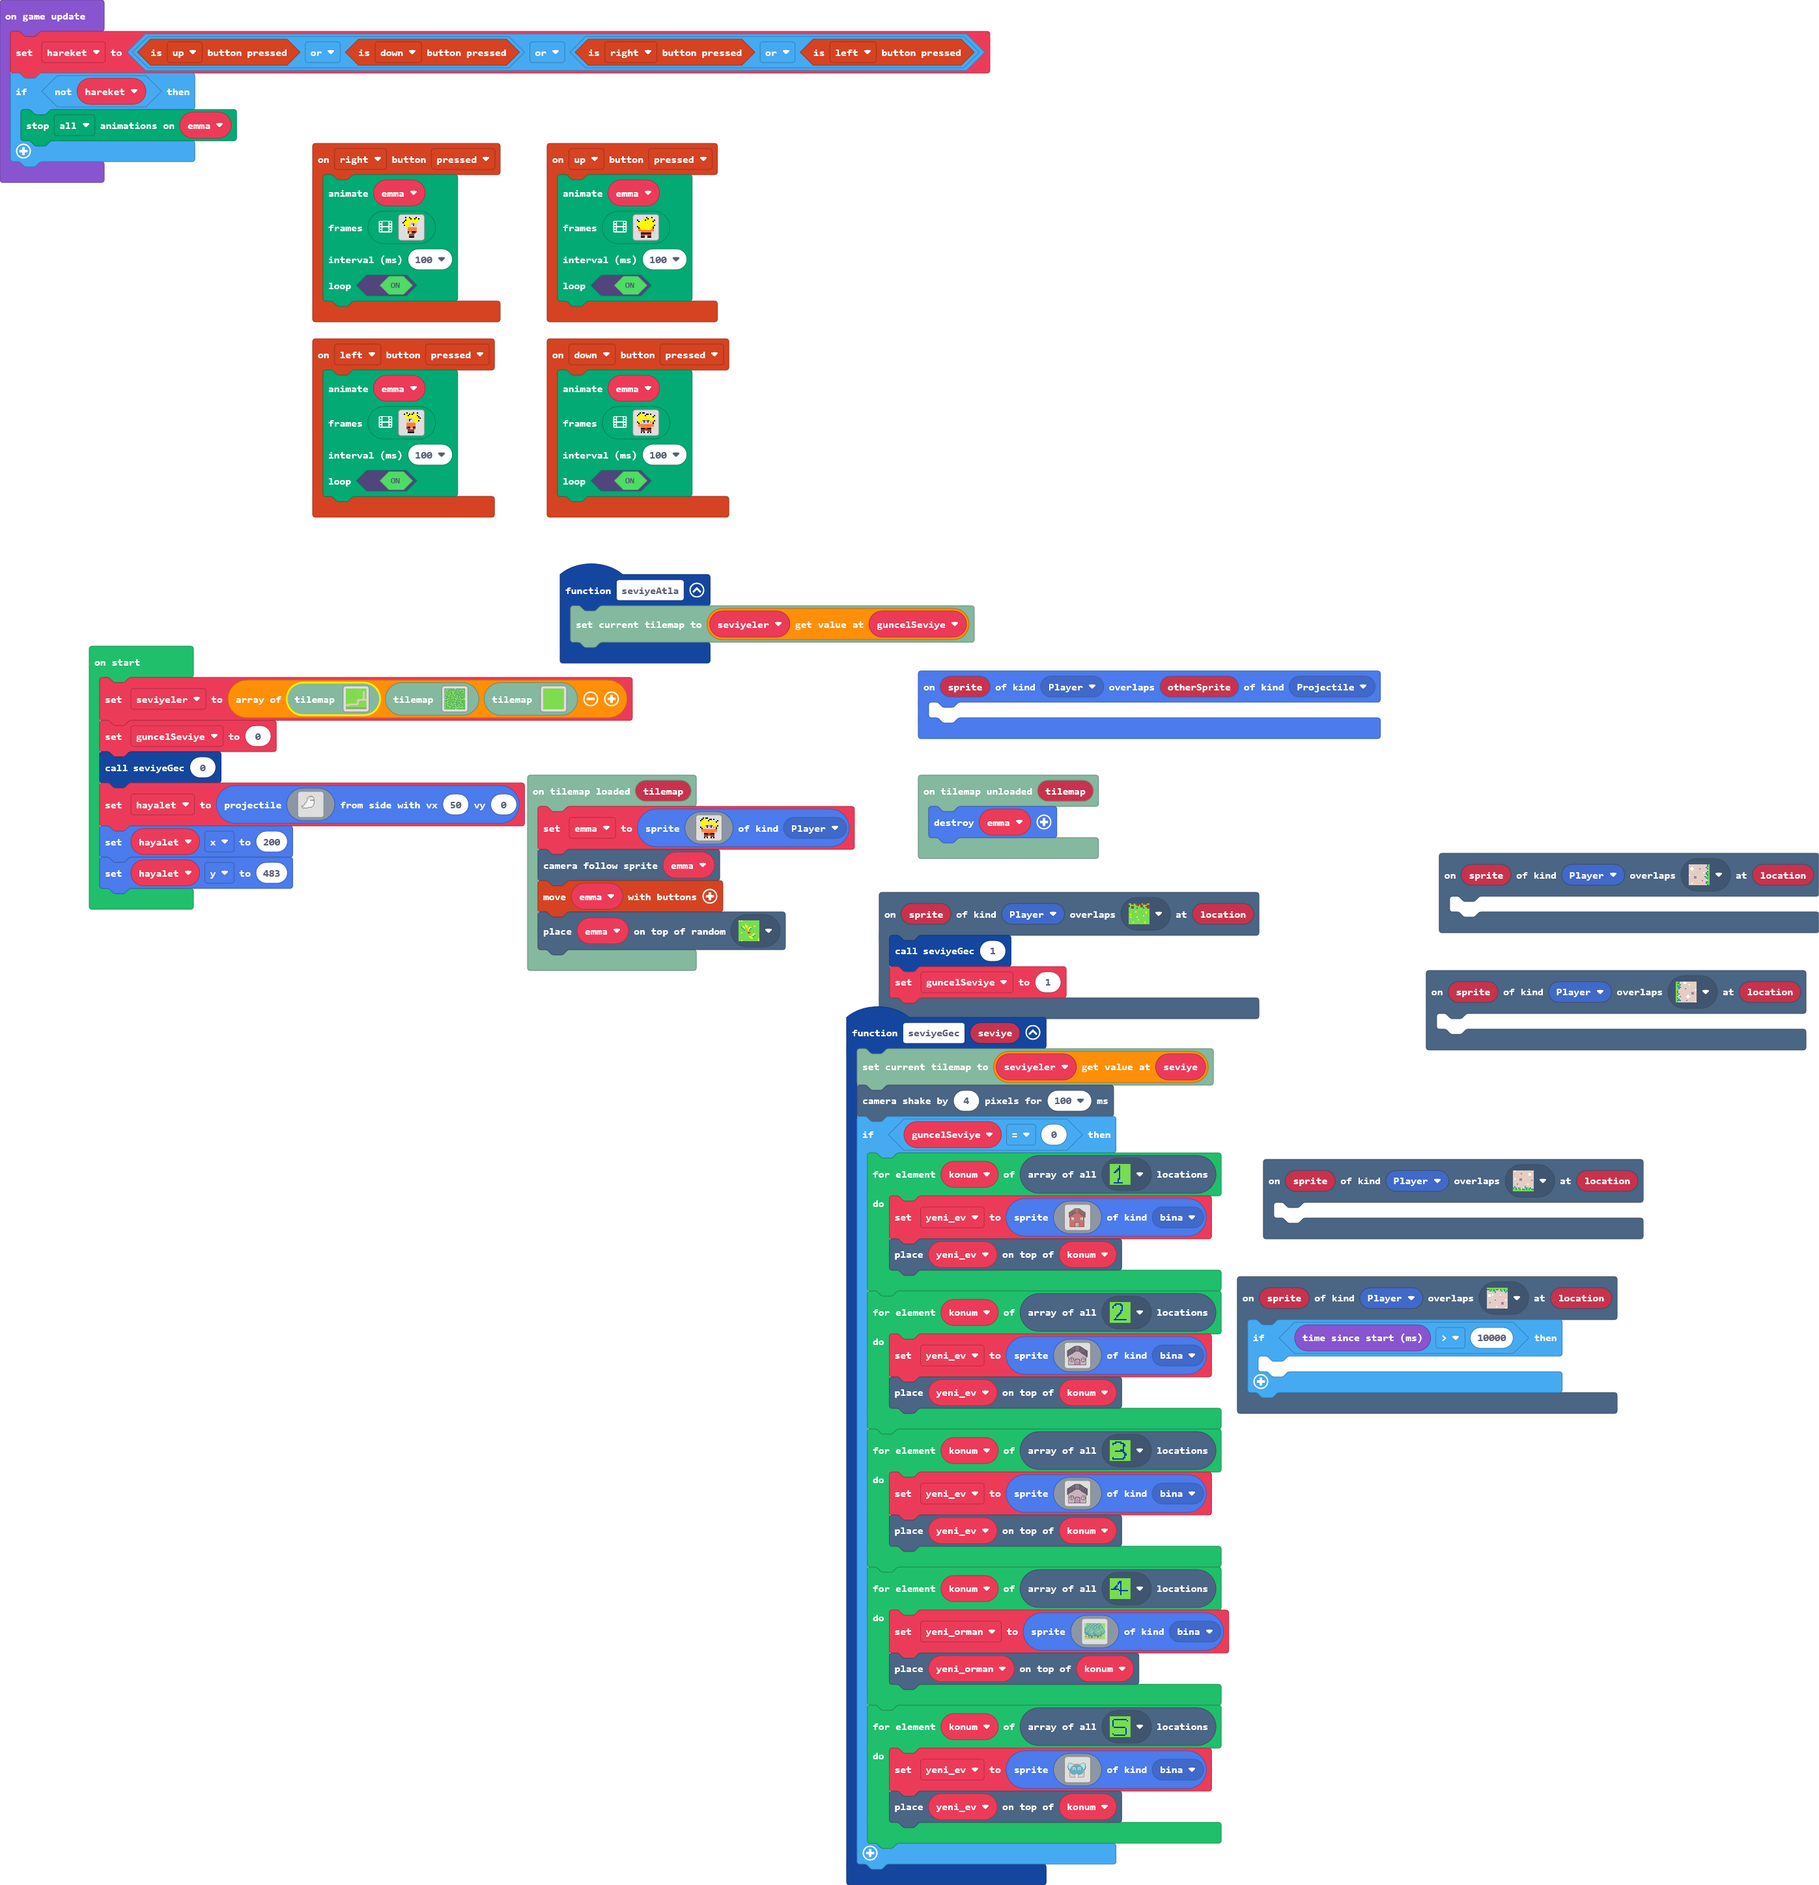
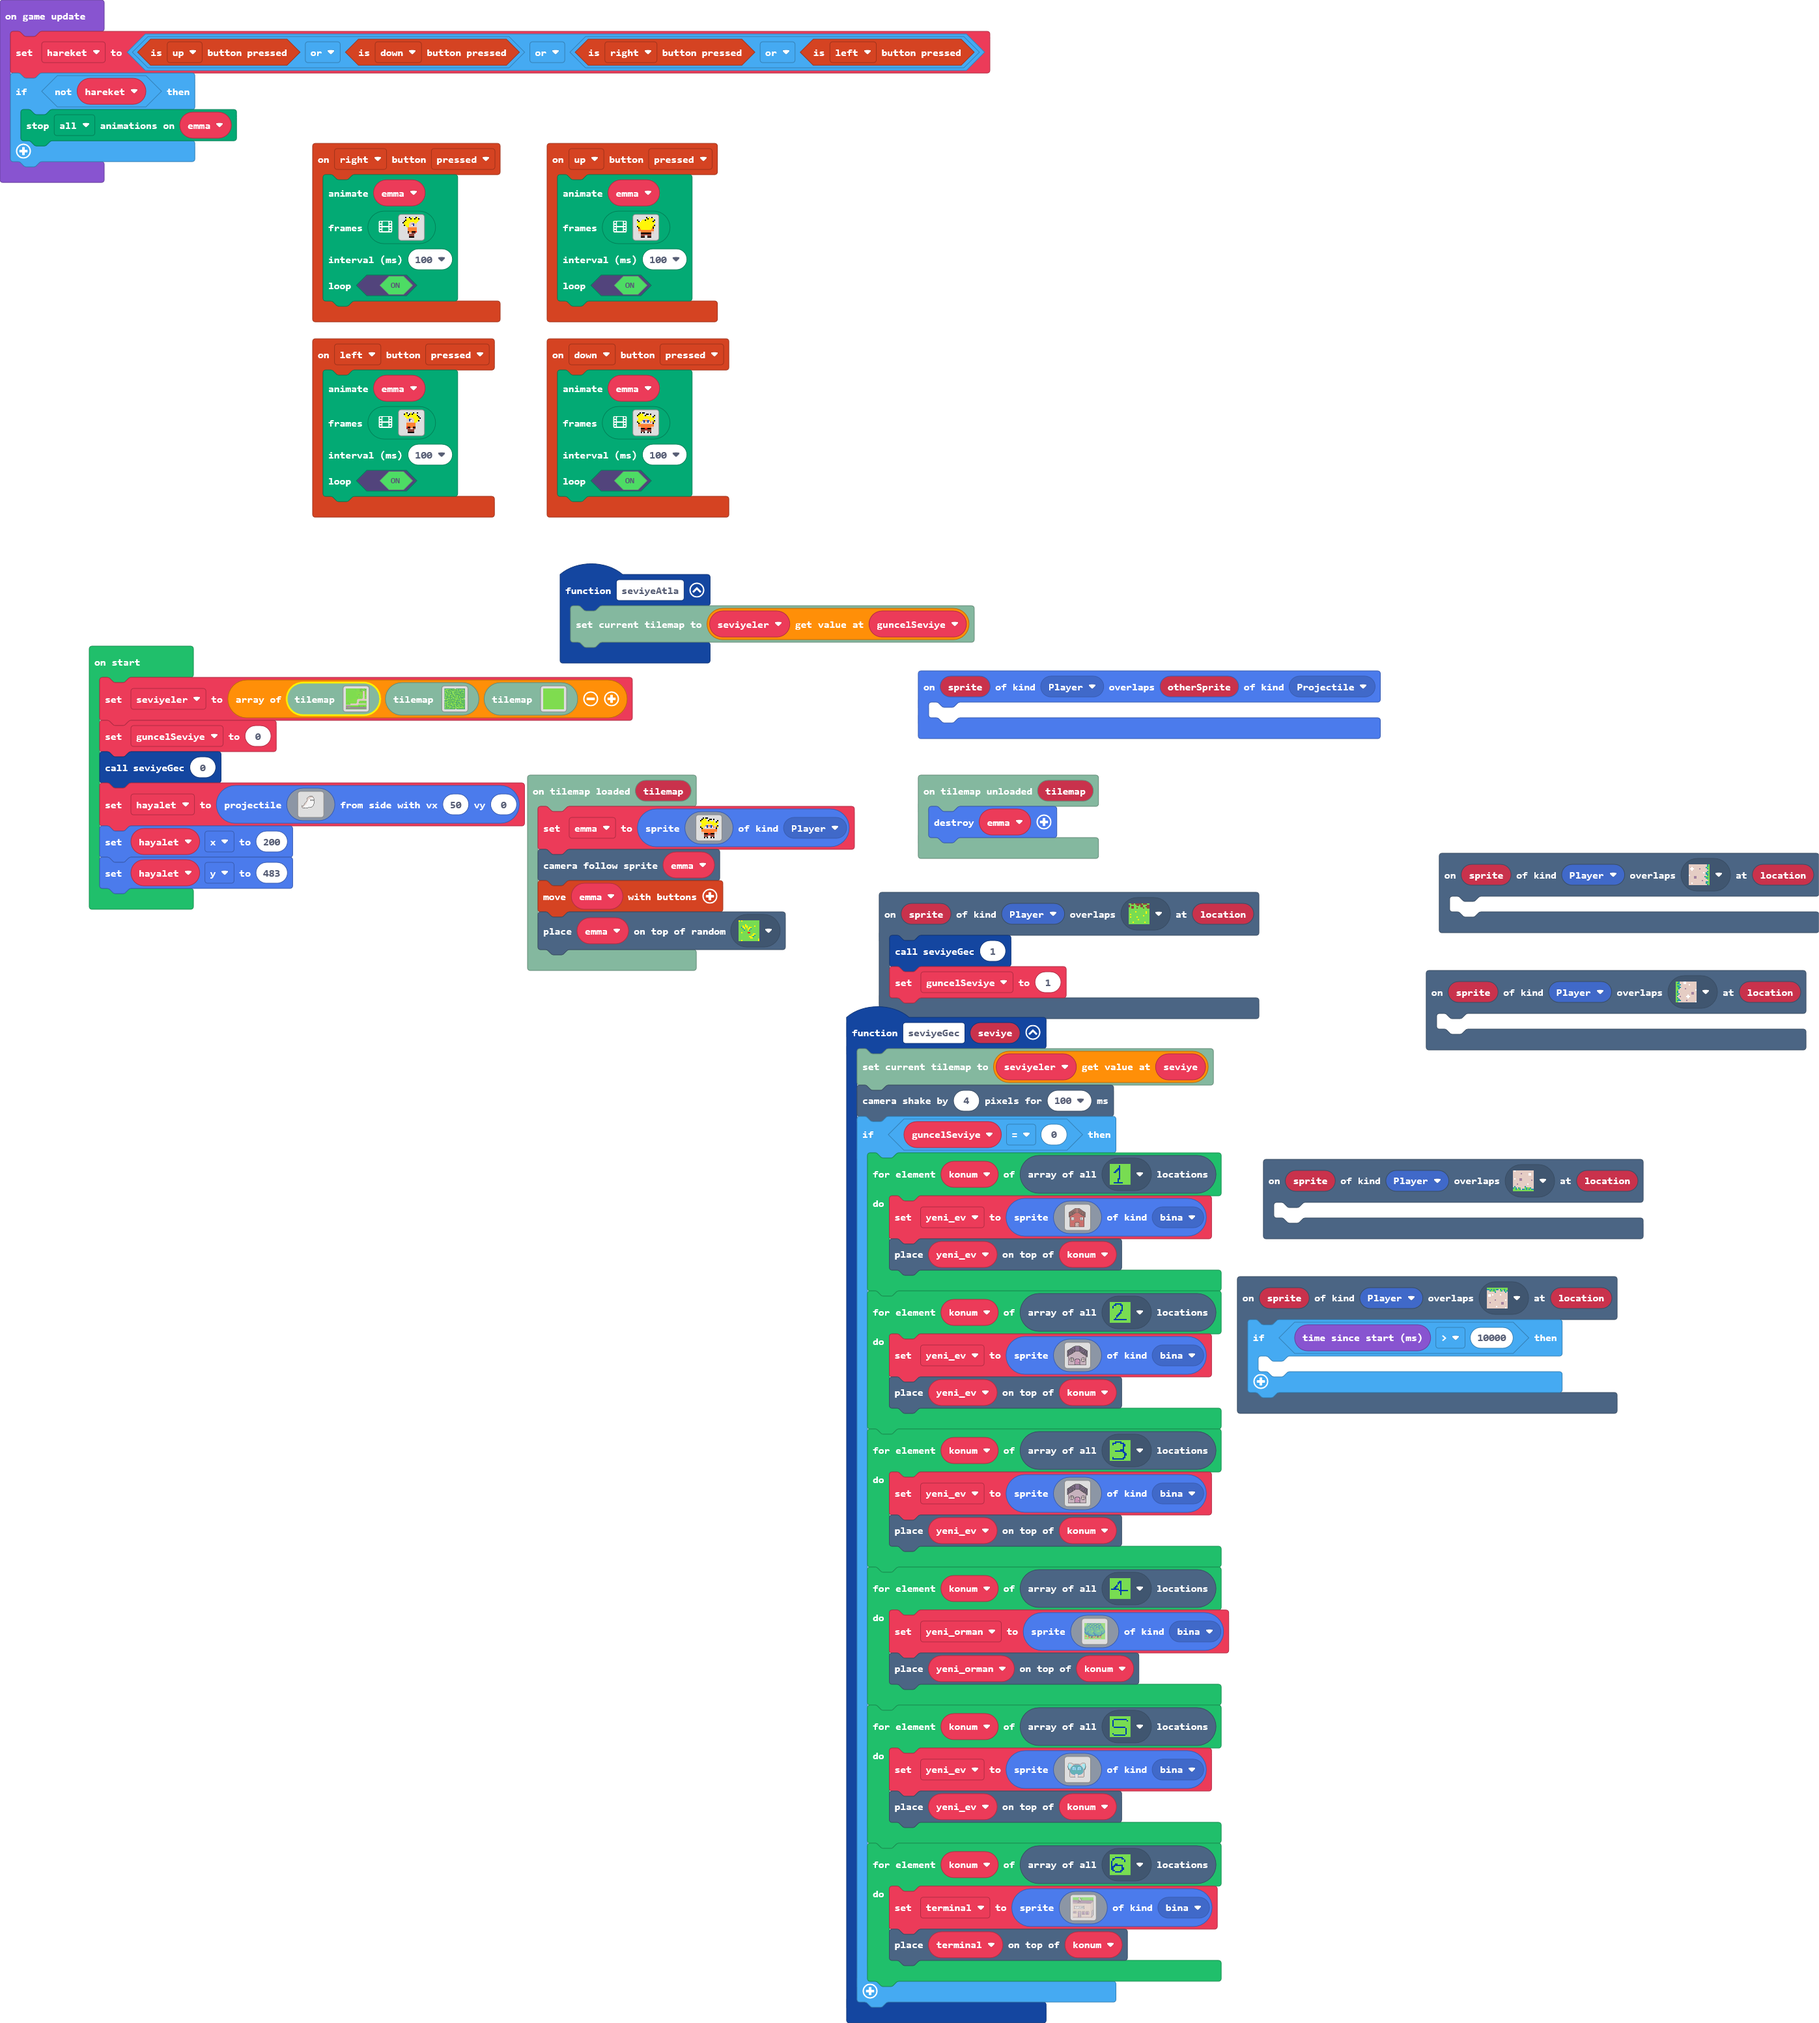
Update main.blocks, main.ts, images.g.jres, images.g.ts, tilemap.g.jres, tilemap.g.ts

Changed region(s): [[0.0, 0.0, 1.0, 0.9952]]

diff --git a/images.g.ts b/images.g.ts
@@ -366,25 +366,6 @@ c 3 c 3 3 5 5 5 5 3 3 c 3 c
 . . 3 3 3 3 3 3 3 3 3 3 . . 
 . . . 3 a a 3 3 a a 3 . . . 
 `;
-            case "image10":
-            case "myImage3":return img`
-. . . . . . . . . . . . . . . . 
-. . . . . . . . . . . . . . . . 
-. . . . . . . . . . . . . . . . 
-. . . . . . . . . . . . . . . . 
-. . . . . . . . . . . . . . . . 
-. . . . . . . . . . . . . . . . 
-. . . . . . . . . . . . . . . . 
-. . . . . . . . . . . . . . . . 
-. . . . . . . . . . . . . . . . 
-. . . . . . . . . . . . . . . . 
-. . . . . . . . . . . . . . . . 
-. . . . . . . . . . . . . . . . 
-. . . . . . . . . . . . . . . . 
-. . . . . . . . . . . . . . . . 
-. . . . . . . . . . . . . . . . 
-. . . . . . . . . . . . . . . . 
-`;
             case "image11":
             case "myImage4":return img`
 . d . . . . . d . . d . . . d . 
@@ -1060,6 +1041,137 @@ fff.feeeeeeeeeeeeeeeeeeeeeeeeeeeeeeeeeeeeeeeeeeeeeeeeeeeeeefffef
 . . . . . . . . . . . . . . . . 
 . . . . . . . . . . . . . . . . 
 . . . . . . . . . . . . . . . . 
+`;
+            case "image10":
+            case "myImage3":return img`
[21 lines of base64/hex data omitted]
+bbbbbbbbbbbbbbbbbbbbbbbbbbbbbbbbbbbbbbfbbfbbbbbbbbbbbbbbbbbbbbbbbbbbbbbbbbbbbbbbbbbbbbbbbbbbbbbbbbbbbbbbbbbbbbbbbbbbbbbbbbbbbb1f
+bbbbbbbbbbbbbbbbbbbbbbbbbbbbbbbbbbbbbbfbbbfbbbbbbbbbbbbbbbbbbbbbbbbbbbbbbbbbbbbbbbbbbbbbbbbbbbbbbbbbbbbbbbbbbbbbbbbbbbbbbbbbb1ff
[100 lines of base64/hex data omitted]
+dffffffffffffffffffffffffffffffffffffffffffffffffffffffffffffffffffffffffffffffffffffffffffffffffffffffffffffffffffddddddddddddd
+dddddddddddddddddddddddddddddddddddddddddddddbbbddddddddddddddddddddddddddddddddddddddddddddddddddddddddddddddddddddddbbdddddddd
+dddddddbbddddddddddddddddddddddbbddddddddddddbbbddddddddddddddddddddddddddddddddbbddddddddddddddddddddddddddddddddddddbbdddddddd
+dddddddbbddddddddddddddddddddddbbdddddddddddddddddddddddddddddddddddddddddddddddbbdddddddddddddddddbbddddddddddddddddddddddddddd
+dddddddddddddddddddddddddddddddddddddddddddddddddddddddddbbddddddddddddddddddddddddddddddddddddddddbbddddddddddddddddddddddddddd
 `;
         }
         return null;

diff --git a/tilemap.g.ts b/tilemap.g.ts
@@ -214,7 +214,7 @@ namespace myTiles {
 . . . . . . . . . . . . . . . . 
 `, [myTiles.transparency16], TileScale.Sixteen);
             case "level4":
[2 lines of base64/hex data omitted]
 .....................2..........
 .....................2....222...
 .....................2....222...
@@ -233,13 +233,13 @@ namespace myTiles {
 ................................
 ................................
 ................................
-.......................2........
-......................222...222.
-......................2.2.2.2.22
-....................2.222...222.
-................................
-................................
-................................
+2222222................2........
+2222222...............222...222.
+2222222...............2.2.2.2.22
+2222222.............2.222...222.
+2222222.........................
+2222222.........................
+2222222.........................
 ................................
 ................................
 ....................2......2....
@@ -247,7 +247,7 @@ namespace myTiles {
 ................................
 ................................
 22222222222222222222222222222222
-`, [myTiles.transparency16,sprites.castle.tileGrass1,myTiles.tile7,myTiles.tile4,sprites.castle.tileGrass3,sprites.castle.tilePath5,myTiles.tile10,myTiles.tile11,myTiles.tile12,sprites.vehicle.roadHorizontal,sprites.castle.tilePath1,sprites.castle.tilePath2,sprites.castle.tilePath8,sprites.castle.tilePath9,sprites.castle.tilePath6,sprites.castle.tilePath4,myTiles.tile14,myTiles.tile16,myTiles.tile17,myTiles.tile19,myTiles.tile3,sprites.castle.tileGrass2,myTiles.tile5,myTiles.tile20,myTiles.tile2,sprites.castle.tilePath3], TileScale.Sixteen);
+`, [myTiles.transparency16,sprites.castle.tileGrass1,myTiles.tile7,myTiles.tile4,sprites.castle.tileGrass3,sprites.castle.tilePath5,myTiles.tile10,myTiles.tile11,myTiles.tile12,sprites.vehicle.roadHorizontal,sprites.castle.tilePath1,sprites.castle.tilePath2,sprites.castle.tilePath8,sprites.castle.tilePath9,sprites.castle.tilePath6,sprites.castle.tilePath4,myTiles.tile14,myTiles.tile16,myTiles.tile17,myTiles.tile19,myTiles.tile3,sprites.castle.tileGrass2,myTiles.tile5,myTiles.tile20,myTiles.tile2,sprites.castle.tilePath3,myTiles.tile15,myTiles.tile9,sprites.vehicle.roadIntersection1,sprites.vehicle.roadIntersection2,sprites.vehicle.roadVertical,sprites.vehicle.roadTurn1], TileScale.Sixteen);
         }
         return null;
     })

diff --git a/main.ts b/main.ts
@@ -147,6 +147,10 @@ function seviyeGec (seviye: number) {
             yeni_ev = sprites.create(assets.image`myImage11`, SpriteKind.bina)
             tiles.placeOnTile(yeni_ev, konum)
         }
+        for (let konum of tiles.getTilesByType(assets.tile`myTile13`)) {
+            terminal = sprites.create(assets.image`myImage3`, SpriteKind.bina)
+            tiles.placeOnTile(terminal, konum)
+        }
     }
 }
 tiles.onMapUnloaded(function (tilemap2) {
@@ -156,6 +160,7 @@ scene.onOverlapTile(SpriteKind.Player, sprites.castle.tilePath6, function (sprit
 	
 })
 let hareket = false
+let terminal: Sprite = null
 let yeni_orman: Sprite = null
 let yeni_ev: Sprite = null
 let emma: Sprite = null
